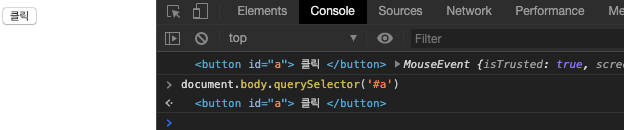
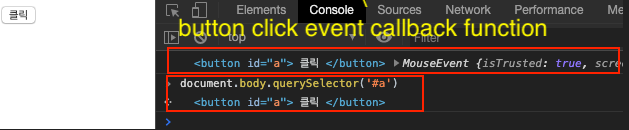
this 수정

Changed region(s): [[0.0, 0.0, 1.0, 1.0], [0.0, 0.0308, 0.0609, 0.2154]]

diff --git a/_posts/javascript/2020-02-01-this/2020-02-01-this.md b/_posts/javascript/2020-02-01-this/2020-02-01-this.md
@@ -95,12 +95,12 @@ keywords:
     ```js
     // 함수로서 호출
     var obj = {
-    bar: function() {
-        var x = (function(){
-                    return this
-                })();
-        return x;
-    }
+        bar: function() {
+            var x = (function(){
+                        return this
+                    })();
+            return x;
+        }
     };
 
     obj.bar() === window //true
@@ -109,10 +109,10 @@ keywords:
 
     // 메서드로서 호출
     var obj = {
-    bar: function() {
-        var x = (() => this)(); // 주의: use arrow funciton
-        return x;
-    }
+        bar: function() {
+            var x = (() => this)(); // 주의: use arrow funciton
+            return x;
+        }
     };
 
     obj.bar() === obj	//true
@@ -168,6 +168,7 @@ keywords:
     * [3]: {outer: f}
     * [4]: window {...}
     * [5]: {outer: f}
+
     ```js
     var obj1 = {
         outer: function() {
@@ -179,13 +180,13 @@ keywords:
 
             var me = this;
             var innerFunc2 = function(){
-                console.log(me);    // [3] 메서드의 내부 함수에서의 this를 우회하는 방법
+                console.log(me);    // [3] POINT 메서드의 내부 함수에서의 this를 우회하는 방법
                 console.log(this);  // [4]
             }
             innerFunc2(); 
 
             var innerFunc3 = () => {
-                console.log(this);  // [5] this를 바인딩하지 않는 함수
+                console.log(this);  // [5] POINT: this를 바인딩하지 않는 함수
             }
             innerFunc3();
 
@@ -210,18 +211,19 @@ keywords:
         console.log(this, v);
     })
 
+    //event Callback function 참고
     document.body.innerHTML += `<button id="a"> 클릭 </button>`
     document.body.querySelector('#a').addEventListener('click', function(e){
         console.log(this, e);
     })
 
     ```
-* event Callback function 참고
-![](eventCallbackfunction.png)
+    * id='a' dom과 button click event Callback function의 this 비교
+    ![](eventCallbackfunction.png)
 
 
 
-* addEventListner function 내부 추측 
+* addEventListner function 내부 구현 추측 
     - addEventListner function this가 'document.body.querySelector('#a')' 이기 때문에  
     이 값을 callback function을 call메서드를 이용해 명시적으로 this바인딩 할 수 있겠다.
 
@@ -256,7 +258,7 @@ universe: Dog {bark: "RRRR", name: "우주", age: 1}
 ```
 
 # 3-2 명시적으로 this를 바인딩하는 방법
-> 이 목차는 call(), apply(), bind()에서 따로 설명하도록한다.
+> 3-2 이 목차는 call(), apply(), bind()에서 따로 설명하도록한다.
 ## 3-2-1 call 메서드
 ## 3-2-2 apply 메서드
 ## 3-2-3 call/apply 메서드의 활용
@@ -303,29 +305,30 @@ obj.outer3();
 ### 3-2-5 arrow function의 예외사항
 * this를 바인딩하지 않는 함수 목차 참고
 ### 3-2-6 별도의 인자로 this를 받는 경우(콜백 함수 내에서의 this)
-``` js
-var report = {
-    sum: 0,
-    count: 0,
-    add: function() {
-        var args = Array.prototype.slice.call(arguments);
-        args.forEach(function(entry){
-            this.sum += entry;
-            ++this.count;
-        }, this);       //POINT
-    },
-    average: function(){
-        return this.sum / this.count;
+
+    ``` js
+    var report = {
+        sum: 0,
+        count: 0,
+        add: function() {
+            var args = Array.prototype.slice.call(arguments);
+            args.forEach(function(entry){
+                this.sum += entry;
+                ++this.count;
+            }, this);       //POINT
+        },
+        average: function(){
+            return this.sum / this.count;
+        }
     }
-}
 
-report.add( 10, 20, 30 );
-console.log({sum: report.sum, count: report.count, average: report.average()});
-//{sum: 60, count: 3, average: 20}
-```
+    report.add( 10, 20, 30 );
+    console.log({sum: report.sum, count: report.count, average: report.average()});
+    //{sum: 60, count: 3, average: 20}
+    ```
 
-* 콜백함수와 함께 thisArg를 인자로 받는 메서드 
-    ```js
+* 콜백함수와 함께 thisArg를 인자로 받는 메서드
+```js
     Array.prototype.forEach(callback[, thisArg]);
     Array.prototype.map(callback[, thisArg]);
     Array.prototype.filter(callback[, thisArg]);
@@ -337,4 +340,4 @@ console.log({sum: report.sum, count: report.count, average: report.average()});
     Array.prototype.from(callback[, thisArg]);
     Set.prototype.forEach(callback[, thisArg]);
     Map.prototype.forEach(callback[, thisArg]);
-    ```
+```
